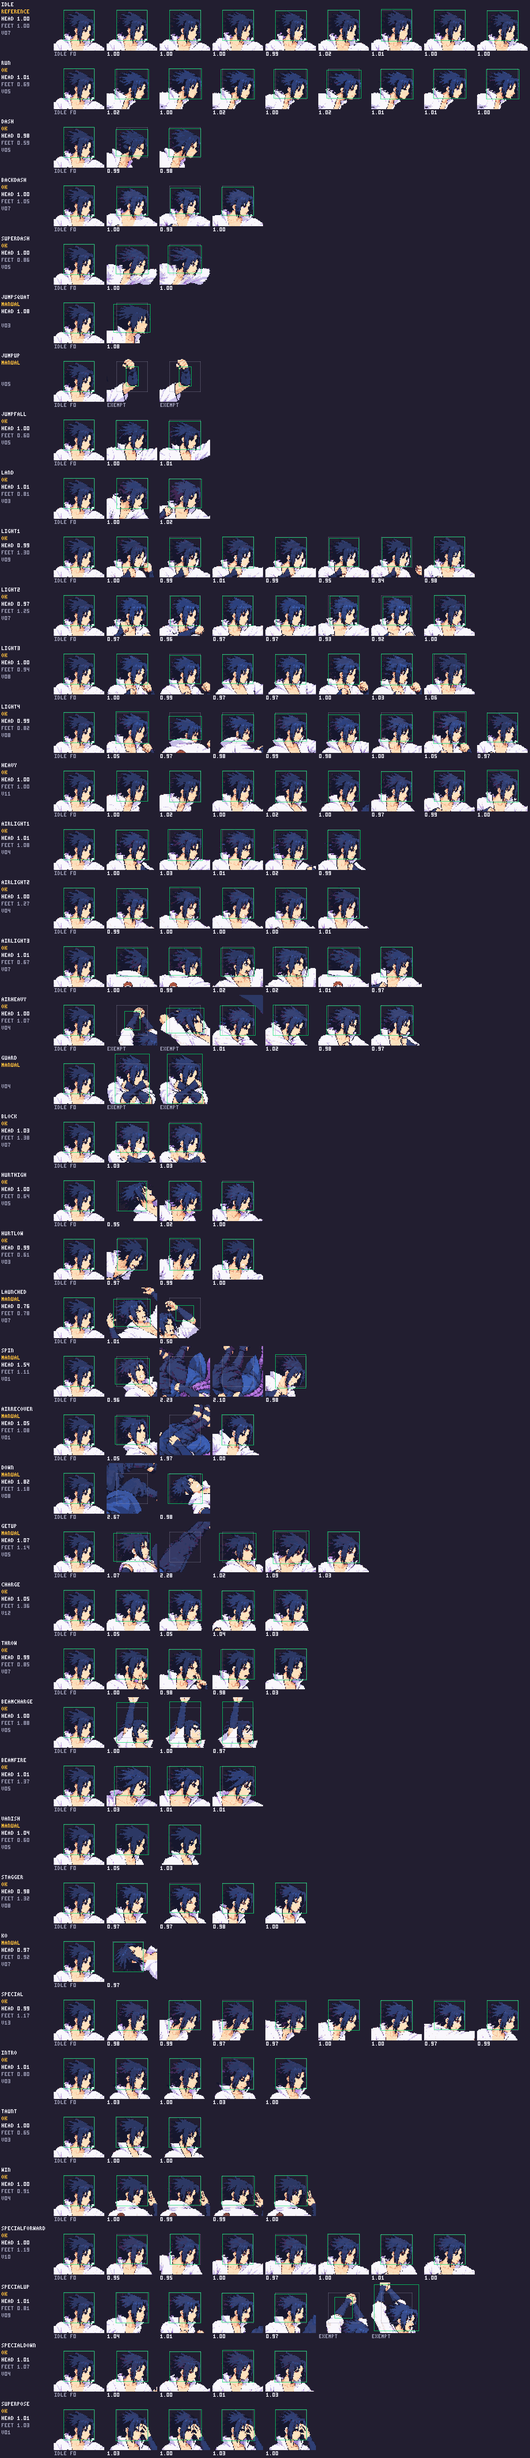
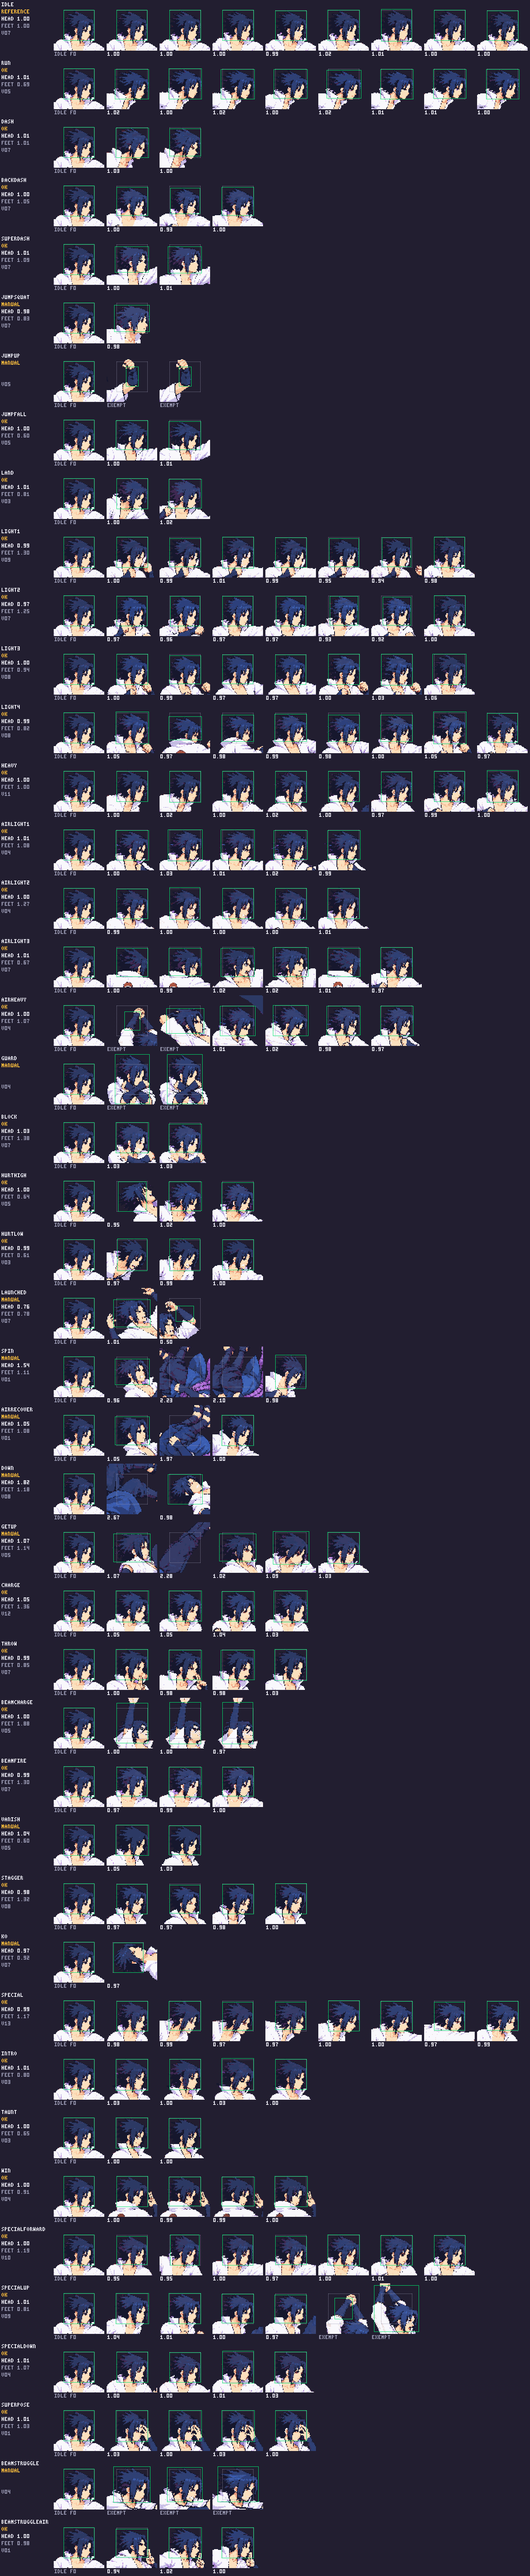
art(sasuke): calibrate beamStruggle scale v04

diff --git a/public/reviews/size-r6/sasuke-beamStruggle-v04/index.html b/public/reviews/size-r6/sasuke-beamStruggle-v04/index.html
@@ -1,0 +1,11 @@
+<!doctype html>
+<html lang="en"><head><meta charset="utf-8"><meta name="viewport" content="width=device-width,initial-scale=1"><title>Sasuke beamStruggle v04 review</title><style>:root{color-scheme:dark;font:16px/1.5 system-ui,sans-serif;background:#14121c;color:#f1eef8}body{max-width:1120px;margin:2rem auto;padding:0 1rem}h1{font-size:1.6rem}h2{font-size:1.15rem;margin-top:2rem}.notice{border:1px solid #669cce;background:#172a3b;padding:1rem}.grid{display:grid;grid-template-columns:repeat(auto-fit,minmax(190px,1fr));gap:1rem}.cell{background:#211e2c;border:1px solid #403b50;padding:.5rem}.cell img{display:block;width:100%;height:auto;image-rendering:pixelated;background:#171521}.label{font-weight:650}.small{color:#c7c1d3;font-size:.9rem}button{font:inherit;padding:.35rem .7rem;margin:.25rem;background:#45365f;color:white;border:1px solid #8d79ae;border-radius:.3rem}button[aria-pressed=true]{background:#7052a5}code{font-size:.9em}table{border-collapse:collapse;width:100%}th,td{border:1px solid #514b5f;padding:.45rem;text-align:left}</style></head><body>
+<h1>Sasuke <code>beamStruggle</code> v04 — scale calibration review</h1>
+<p class="notice"><strong>Ready for visual review; not yet approved.</strong> v04 is a no-call re-assembly of the unchanged v01 drawing. The measured scale now matches the approved idle landmarks; the shipped approval remains v01 until the user approves v04.</p>
+<p class="small">Source art SHA-256: <code>00ADE94028B861DE74CE8095B5644A75D0AA5106013D4B55764B0045FDB993F1</code>. Packed Sasuke atlas: 4096×3072, 48 colors, 44 animations / 181 frames. v04 bodyHeight 152 (~1.25× the approved v01 setting 122). The head probe overlaps the outstretched navy sleeve, so frames 0–2 have version-specific exemptions and manual landmarks.</p>
+<h2>Reference scale</h2><div class="grid"><div class="cell"><div class="label">Approved idle f0 — head ~40 px, sash band ~46 px</div><img src="idle-f0.png" alt="Approved Sasuke idle frame 0"></div><div class="cell"><div class="label">Approved title-style combat reference</div><img src="approved-combat-v01.png" alt="Approved Sasuke title-style combat cell"></div></div>
+<h2>Old vs calibrated packed strip</h2><div class="grid"><div class="cell"><div class="label">Approved v01 f0</div><img src="old-v01-f0.png" alt="Approved beam struggle frame 0 before size calibration"></div><div class="cell"><div class="label">Candidate v04 f0</div><img src="v04-f0.png" alt="Candidate v04 frame 0"></div><div class="cell"><div class="label">Approved v01 f1</div><img src="old-v01-f1.png" alt="Approved beam struggle frame 1 before size calibration"></div><div class="cell"><div class="label">Candidate v04 f1</div><img src="v04-f1.png" alt="Candidate v04 frame 1"></div><div class="cell"><div class="label">Approved v01 f2</div><img src="old-v01-f2.png" alt="Approved beam struggle frame 2 before size calibration"></div><div class="cell"><div class="label">Candidate v04 f2</div><img src="v04-f2.png" alt="Candidate v04 frame 2"></div></div>
+<h2>Candidate playback</h2><div class="cell" style="max-width:320px"><div class="label">Frame <span id="frame-label">0</span></div><img id="candidate" src="v04-f0.png" alt="Candidate Sasuke beamStruggle frame 0"><div><button id="prev">Previous</button><button id="play" aria-pressed="false">Play</button><button id="next">Next</button></div><div id="frame-buttons"></div></div>
+<h2>Scale landmarks at packed atlas density</h2><table><thead><tr><th>Landmark</th><th>Approved idle f0</th><th>v04 frames 0–2</th><th>Result</th></tr></thead><tbody><tr><td>Crown including hair to chin</td><td>~40 px</td><td>39–41 px</td><td>Within about ±2 px</td></tr><tr><td>Front sash band width, excluding loose ties/tails</td><td>~46 px</td><td>44–48 px</td><td>Within about ±2 px</td></tr></tbody></table>
+<p class="small">Claude supplied the calibrated two-landmark readings in art-camera relay #4; Codex packed v04 and visually checked the equal-density atlas comparison. The probe box includes the sleeve, so it is not used as a head-size verdict. This is scale QA, not an approval of design, pose, contact or gameplay. v02/v03 history is preserved in the measurement record.</p>
+<script>const frames=['v04-f0.png','v04-f1.png','v04-f2.png'];let n=0,t=null;const img=document.getElementById('candidate'),label=document.getElementById('frame-label'),play=document.getElementById('play'),buttons=document.getElementById('frame-buttons');function set(i){n=(i+frames.length)%frames.length;img.src=frames[n];img.alt=`Candidate Sasuke beamStruggle frame ${n}`;label.textContent=n;[...buttons.children].forEach((b,j)=>b.setAttribute('aria-pressed',String(j===n)))}for(let i=0;i<3;i++){const b=document.createElement('button');b.textContent=`Frame ${i}`;b.onclick=()=>set(i);buttons.appendChild(b)}document.getElementById('prev').onclick=()=>set(n-1);document.getElementById('next').onclick=()=>set(n+1);play.onclick=()=>{if(t){clearInterval(t);t=null;play.textContent='Play';play.setAttribute('aria-pressed','false')}else{t=setInterval(()=>set(n+1),70);play.textContent='Pause';play.setAttribute('aria-pressed','true')}};set(0);</script></body></html>

diff --git a/art/scale/size-r6/CONFIRMED.md b/art/scale/size-r6/CONFIRMED.md
@@ -6,6 +6,8 @@ Exhaustive 230-strip inventory and triage counts: [FILTERED_CANDIDATES.md](FILTE
 
 The previous draft contained estimated segment ratios that were not reproducible from endpoint coordinates. Those ratios and every resulting redraw/“OK” verdict are withdrawn. B (garment-color area) and H (head-probe output) remain diagnostic only; neither establishes a limb-chain ratio. The per-frame coordinate grids in this folder show the packed candidate, its own idle f0, and the approved title-style combat cell at equal 256 px density, with 32 px grid lines. They support pose inspection but do not themselves mark anatomical landmarks.
 
+**Relay #4 calibration:** Claude supplied two agreeing landmarks for Sasuke `beamStruggle` v01 (about 31/40 px crown-to-chin and 37/46 px front sash width, both about 20% small); this supersedes the earlier unannotated estimates below. A no-call 1.246× packed re-assembly at bodyHeight152 is v04. Its packed head and sash landmarks are within the idle target ranges; scale QA passes, while design approval and contact QA remain pending. Claude withdrew the B-based tier-1 picks Killua `airLight2`, Sasuke `airLight3`, and Gojo `hurtLow`; no further image call for Killua `airLight2`. Gojo `heavy` and `airLight1` stay unresolved pending two-landmark checks. See [v04 record](SASUKE_BEAMSTRUGGLE_V04.md).
+
 The inspected frames do not yet establish a reproducible limb-chain error. Two torso comparisons have endpoint estimates below, but their poses introduce projection/compression uncertainty; broad silhouette spans are not accepted as torso breadth unless they isolate shoulder/torso landmarks. These data do not yet authorize a redraw. Unresolved rows are holds, not passes. Tier 2 likewise has no certified pass; “no demonstrated error” means only that this review did not establish one.
 
 ## Tier 1: required segments and disposition
@@ -16,8 +18,9 @@ The inspected frames do not yet establish a reproducible limb-chain error. Two t
 | Gojo `airLight1` v07 | f0-f4 | `coords-gojo-airLight1-f*.png` | No endpoint coordinates recorded | No endpoint coordinates recorded | Extended arm is not a same-pose comparison | Folded/airborne chain; no homologous endpoints | No sole/heel pair measured | Hold; previous short-body assertion withdrawn |
 | Gojo `hurtLow` v04 | f0-f2 | `coords-gojo-hurtLow-f*.png` | No endpoint coordinates recorded | Crouch changes projected torso; endpoints unmarked | Partly occluded | Bent chain; endpoints unmarked | No sole/heel pair measured | Hold; previous short-body assertion withdrawn |
 | Sasuke `airLight3` v07 | f0-f5 | `coords-sasuke-airLight3-f*.png` | No endpoint coordinates recorded | Rotating poses; endpoints unmarked | Rotation/extension; endpoints unmarked | Rotation/extension; endpoints unmarked | No sole/heel pair measured | Hold; previous enlarged-body assertion withdrawn |
-| Sasuke `beamStruggle` v01 | f0-f2; checked all frames | `coords-sasuke-beamStruggle-f0.png`, `f1.png`, `f2.png`; native sources `raw/beamStruggle_v01.png`, `reference/idle_approved.png` | Packed-grid visual crown-to-chin: idle f0 y65–108 ≈43 px; beam f0 y123–156 ≈33 px; candidate/reference 0.77 (±4 px endpoint uncertainty -> approx 0.60–0.96). Manual B/H body report says H=.949; discrepancy unresolved, so visual head estimate alone is not accepted as a finding. | Torso collar-to-belt visual estimate: idle y96–145 ≈49 px; beam f0 y139–175 ≈36 px; ratio 0.73, ±4 px each endpoint (approx 0.62–0.88). Deep crouch/lean compresses vertical projection. Previous broad torso silhouette-width estimate is withdrawn; sleeves/arms were not excluded with an annotated scanline. | Arm chains not homologous; extended push pose | Deep wide crouch; lower-chain endpoints not homologous to idle stance | Sole/toe-heel not measured | Original manifest bodyHeight 122 packs with no beamStruggle scale-gate warning (`1 ref, 33 ok, 10 manual`). Isolated diagnostic bodyHeight 159 produced `beamStruggle head 1.24 of idle (feet 1.44)` and was worse; 122 and all outputs restored. Conflicting visual/probe evidence and pose projection leave this unresolved; no redraw authorized |
[1 lines of base64/hex data omitted]
+| Sasuke `beamStruggle` v01 | f0-f2 | Claude's relay #4 two-landmark calibration | Crown-to-chin 31 vs idle 40 px (0.78); front sash band 37 vs idle 46 px (0.80); both approximately 20% small and agree, identifying a whole-drawing scale error rather than anatomy drift. | Same source, matched horizontal front-band endpoints; approximately 20% small. | Extended push pose; no same-pose arm pair | Deep wide crouch; projection not used as height | Shoe pair not needed after two agreeing landmarks | Confirmed size error. No-call re-assembly at ~1.25×; v04 retains identical source pixels at bodyHeight152. |
[2 lines of base64/hex data omitted]
 | Killua `airLight2` v07 | f0-f4 | `coords-killua-airLight2-f*.png` | No endpoint coordinates recorded | No endpoint coordinates recorded | Kick pose; no homologous chain measured | f0 is a one-leg airborne pose unlike idle stance; projected length is not full chain length | No homologous heel/toe pair | Hold; previous .65-.76 leg and .78-.90 shoe ratios withdrawn |
 
 The prior ratio claims were based on visual estimates and/or inferred from B/H. They must not be reused as measurements. To change a hold into a finding, annotate each compared frame with the actual anatomical endpoint pixel coordinates, calculate Euclidean pixel lengths at the same packed density, record the reference chain and candidate chain, and report uncertainty for ambiguous landmarks. A redraw decision requires repeatable evidence of the same segment deviation across relevant frames, not a body-area median.

diff --git a/art/REVIEW.md b/art/REVIEW.md
@@ -8,7 +8,8 @@ Reviewed pages: [Goku full core set](https://gcd-tourney-le661omg1-eshin087s-pro
 
 | date | character | asset | file | version | status | what changed | QA notes |
 |---|---|---|---|---|---|---|---|
-| 2026-10-17 | sasuke | beamStruggle | [beamStruggle_v03.png](characters/sasuke/raw/_qa_hold/beamStruggle_v03.png) | v03 | needs review | No-call byte-identical v01 reassembly calibration; held pending a defined sash-band measurement. | Diagnostic bodyHeight146 page compares approved idle/combat, packed v01, v03 frames and air strip. Manual QA pending; approved v01 and bodyHeight122 production atlas unchanged. Technical hold; no approval requested. See [measurement record](scale/size-r6/SASUKE_BEAMSTRUGGLE_V03.md) and [page](../public/reviews/size-r6/sasuke-beamStruggle-v03/index.html). |
+| 2026-10-18 | sasuke | beamStruggle | [beamStruggle_v04.png](characters/sasuke/raw/beamStruggle_v04.png) | v04 | needs review | No-call 1.246× re-assembly of the unchanged v01 drawing; bodyHeight152. | Claude's two landmarks identify v01 as ~20% small. Packed v04 crown-to-chin is 39–41 px and sash band 44–48 px versus idle ~40/46 px; probe overlaps sleeve and is exempt on f0-f2. Scale QA passes, but art approval remains pending. [Review page](../public/reviews/size-r6/sasuke-beamStruggle-v04/index.html); [head scale](scale/heads-sasuke.png); [body sheet](scale/size-r6/body-sasuke-beamStruggle.png); [lineup](scale/size-r6/lineup-sasuke-beamStruggle-v04.png); [measurement record](scale/size-r6/SASUKE_BEAMSTRUGGLE_V04.md). |
+| 2026-10-17 | sasuke | beamStruggle | [beamStruggle_v03.png](characters/sasuke/raw/_qa_hold/beamStruggle_v03.png) | v03 | needs review | Diagnostic byte-identical v01 copy; superseded by v04 calibration and retained in `_qa_hold`. | Diagnostic bodyHeight146 only; the probe/sash methods were inconclusive. Not a user art-review candidate. See [historical record](scale/size-r6/SASUKE_BEAMSTRUGGLE_V03.md). |
 | 2026-10-17 | killua | airLight2 | [airLight2_v08.png](characters/killua/raw/_qa_hold/airLight2_v08.png) | v08 | needs review | Unapproved diagnostic redraw attempt; preserved in `_qa_hold`, not submitted for user approval. | Strict pack failed `airLight2 head 1.06, feet 1.21 of idle`; no frames/atlas were written. v07 segment evidence does not justify a lower-body correction yet. Preserve v07 approved; no approval requested for v08. See [generation ledger](characters/killua/production/size-r6/GENERATION_LEDGER.md). |
 | 2026-10-16 | goku | run | [run_v09.png](characters/goku/raw/run_v09.png) | v09 | approved | Approved by the user via Claude relay #14, as drawn; exact quote above. No pixels changed. | Final strict r5 atlas audit retained; runtime contact/timing checks remain Claude’s. |
 | 2026-10-16 | goku | dash | [dash_v09.png](characters/goku/raw/dash_v09.png) | v09 | approved | Approved by the user via Claude relay #14, as drawn; exact quote above. No pixels changed. | Final strict r5 atlas audit retained; runtime contact/timing checks remain Claude’s. |

diff --git a/art/scale/size-r6/SASUKE_BEAMSTRUGGLE_V04.md b/art/scale/size-r6/SASUKE_BEAMSTRUGGLE_V04.md
@@ -1,0 +1,26 @@
+# Sasuke `beamStruggle` v04 calibration
+
+This is a no-call re-assembly for scale review. It changes no pose, anatomy, or source pixels and does not approve the art.
+
+## Calibration and provenance
+
+Claude's calibration instruction arrived in art-camera relay #4: v01 was about 20% small; the head probe included the outstretched navy sleeve because that sleeve uses the hair palette. The two independent landmarks agreed: crown-to-chin about 31 px versus the idle's 40 px, and front sash band about 37 px versus 46 px. Claude directed an approximately 1.25× no-call re-assembly, per-frame probe exemptions, and version-bound manual QA.
+
[1 lines of base64/hex data omitted]
+
+## Packed landmark verification
+
+At equal 256 px cell density, the packed v04 frames were compared with approved Sasuke idle f0 and the approved title-style combat cell. The corrected landmarks match Claude's target:
+
+| Landmark | Idle f0 | v04 f0 | v04 f1 | v04 f2 | Uncertainty / disposition |
+|---|---:|---:|---:|---:|---|
+| Crown including hair to chin | ~40 px | 39–41 px | 39–41 px | 39–41 px | Head tilt and sleeve overlap; about ±2 px. Within target. |
+| Front sash band width, excluding ties and tails | ~46 px | 44–48 px | 44–48 px | 44–48 px | Pose/perspective; about ±2 px. Within target. |
+
+The head probe remains invalid for this strip because it captures the navy sleeve. Manifest `scaleExemptFrames` covers f0-f2 and `scaleExemptVersion` is 4; `scaleManualQA` is bound to v04. The manual result is a scale QA pass only. Limb-chain proportions, contact, pose quality and user art approval remain separate.
+
+## Pack and review evidence
+
+`node tools/pack-sprites.mjs sasuke --quantize 48` completed 44 animations / 181 frames into a 4096×3072 atlas at 48 colors. It reported 1 reference, 32 automatically measured strips and 11 manual strips; the beam probe is exempted for v04. Existing unrelated scale and lying-frame warnings remain listed in the pack output. The generated head report has no flagged strip; the body sheet is advisory and has no flagged strip. The lineup was generated at `art/scale/size-r6/lineup-sasuke-beamStruggle-v04.png`.
+
[1 lines of base64/hex data omitted]

diff --git a/docs/agents/CLAUDE_ART_HANDOFF.md b/docs/agents/CLAUDE_ART_HANDOFF.md
@@ -1,3 +1,15 @@
+# ART-SIZE-R6 tier-1 calibration ready for art review (2026-10-18, chat `1 - Art and Camera`)
+
[1 lines of base64/hex data omitted]
+
[1 lines of base64/hex data omitted]
+
+Claude withdrew the B-only tier-1 picks Killua `airLight2`, Sasuke `airLight3` and Gojo `hurtLow`; no additional Killua `airLight2` call. Gojo `heavy` and `airLight1` have not yet met the two-landmark confirmation threshold. The 113-row candidate filter remains a screening list, not 113 defects; remaining candidate checks and tier 2 continue after the user review step. Gojo `dash`/`superDash` remain excluded to `art/gojo-dash-size`. No camera or engine files changed. No Astra final audit, merge or production deploy.
+
+Validation: `node tools/pack-sprites.mjs sasuke --quantize 48` completed; `npm run build` passed with existing optional-animation lint warnings. Browser QA remains unverified: previous hosted preview navigation was blocked by automatic review on the Vercel authentication redirect; no bypass was attempted.
+
+---
+
 # Codex: all Goku/Luffy core drawings approved; merge guards pass (2026-10-16, relay #14)
 
 **USER APPROVAL via Claude:** "Approve all 16 Goku strips and all 19 Luffy strips as drawn." All 35 exact approvals are recorded in main's shared REVIEW at `3e307d1a` and in the fighter branches' manifests, TRACKER sections and REVIEW_ROWS. Together with earlier approvals, **all 23 core drawings per fighter are approved**. This supersedes the pending drawing requests in the historical handoffs below. No further drawing decision is needed; no new image calls occurred.

diff --git a/docs/TASKS.md b/docs/TASKS.md
@@ -424,5 +424,5 @@ ART-GOJO-TITLE | Codex | in-progress | Approved title-style all42+3UI. All sourc
 
 | ART-LOOSE-NARUTO-20261015 | Scale loose ends | Codex | review | User approved light2Alt v05 and airHeavyAlt v04 as drawn via Claude relay on 2026-10-15. Approval bookkeeping recorded; strict contact/anatomy holds remain for Claude calibration. No atlas promotion, merge or deploy. |
 
-| ART-SIZE-R6 | Size consistency round 6: segment measurements and tier-1 disposition | Codex + Claude | review | 2026-10-17: inventoried all 230 packed strips with hashes/probes and 40 comparison pages; independent screens found no additional confirmed redraw. Sasuke beamStruggle v03 is a held no-call calibration; intended sash-width endpoints need Claude annotation, approved v01/bodyHeight122 atlas preserved. Killua airLight2 v08 remains held after strict pack failure; no approval requested. Full segment audit, Astra final audit and user approval are incomplete. See art/scale/size-r6/FILTERED_CANDIDATES.md, CONFIRMED.md, and SASUKE_BEAMSTRUGGLE_V03.md. |
+| ART-SIZE-R6 | Size consistency round 6: candidate filtering, two-landmark checks and fixes | Codex + Claude | review | 2026-10-18: inventory/filter covers 230 packed strips across six fighters (113 screening leads, not findings). Claude's relay #4 confirms Sasuke beamStruggle v01 ~20% small on crown/chin and sash landmarks; no-call v04 at bodyHeight152 passes those landmarks and is ready for user review. Gojo heavy/airLight1 remain unresolved; Gojo hurtLow, Sasuke airLight3 and Killua airLight2 B-only picks withdrawn; no more Killua airLight2 calls. The remaining filtered candidates, tier 2, user approval, Astra audit, contact check and merge are incomplete. No camera/engine change. See art/scale/size-r6/FILTERED_CANDIDATES.md, CONFIRMED.md and SASUKE_BEAMSTRUGGLE_V04.md. |
 | ART-LOOSE-KILLUA-20261015 | Scale loose ends | Codex | review | User approved charge v14, down v08 and ko v09 as drawn via Claude relay scale#6 (“i approve those 5”); visual approval only. Runtime grounding/state-transition and charge aura checks plus calibration uncertainty remain with Claude. No source, sidecar, hitbox or atlas edits; no commit/merge/deploy. |

diff --git a/art/TRACKER.md b/art/TRACKER.md
@@ -406,7 +406,7 @@ Brief, per-fighter poses and rules: [characters/BEAM_STRUGGLE_BRIEF.md](characte
 | fighter | beamStruggle | beamStruggleAir | the technique | notes |
 |---|---|---|---|---|
 | naruto | approved | - | Rasengan, two-handed push | v02 approved as drawn via Claude approval desk relay #7 (“Approve all 6”); v01 remains held. Strict pack passes (head .95-.98); body-area B=.65-.67 advisory accepted. Palm anchor [232,124] across frames. Astra audit pending; see Round 2 review page. |
-| sasuke | approved | approved | Chidori Spear thrust; in the air the Great Fireball (blown from the mouth, hand sign at the lips) | Ground and air v01 approved via Claude approval desk relay #7. Strict packs pass; approved ground production bodyHeight122 remains unchanged. ART-SIZE-R6 v03 is a held no-call calibration candidate with manual QA pending; see `scale/size-r6/SASUKE_BEAMSTRUGGLE_V03.md`. |
+| sasuke | approved | approved | Chidori Spear thrust; in the air the Great Fireball (blown from the mouth, hand sign at the lips) | Ground and air v01 approved via Claude approval desk relay #7. ART-SIZE-R6 v04 reassembles the unchanged beamStruggle drawing at bodyHeight152; two-landmark scale QA passes, candidate needs user art approval. ApprovedVersion remains v01. See `scale/size-r6/SASUKE_BEAMSTRUGGLE_V04.md`. |
 | killua | approved | approved | Narukami, open palm (in the air driven down) | Ground v01 approved via Claude approval desk relay #7; air v02 approved as drawn via relay #10 (“Approve v02”). Air v01 remains preserved as rejected/superseded in raw/_rejected after its technical gate failure. V02 strict quantized pack passes; body sheet H=.97–1.03, B=.97–.99, no body flag. Astra audit and exact hand-anchor measurement remain before runtime integration. See Round 2 review page. |
 | gojo | approved | approved | Reversal: Red at two fingertips, other hand in the pocket (in the air pointed down) | Ground and air v01 approved via Claude approval desk relay #7; strict packs pass. Astra audit pending; see Round 2 review page. |
 | goku | todo | - | Dragon Fist lunge | after his core art is on main; no air energy shot |

diff --git a/CHANGELOG.md b/CHANGELOG.md
@@ -11,7 +11,7 @@ Fixed, Security. Reference task ids and ADRs where useful.
 
 ## [Unreleased]
 
-- ART-SIZE-R6: inventoried all 230 packed strips with per-strip probe/reference hashes and comparison pages; preserved Killua airLight2 v08 and Sasuke beamStruggle v03 under `_qa_hold`. Sasuke v03 remains a technical hold; tier-1 corrections and approval are incomplete.
+- ART-SIZE-R6: re-assembled Sasuke beamStruggle as v04 at bodyHeight152 with no image call; Claude's crown-to-chin and sash-band landmarks now match idle within ~2 px, with per-frame head-probe exemptions for sleeve overlap. User art approval pending; v01 remains approved. The 230-strip/six-fighter candidate screen and remaining two-landmark checks continue; no camera or engine change.
 
 - Added: `node tools/relay.mjs desk on|off`, the user's switch for the approvals desk (OPS-018, ADR 0040). While it is off, each chat asks the user itself instead of queueing everything for `0 - Approvals`.
 - Added: Round 2b Goku and Luffy super/ultimate image candidates, call/hash ledger, Astra audit and candidate review gallery (ART-SUPER-ART). All eight approved via Claude relay effects #10 despite recorded Astra palette/crop/anatomy holds; approved fixed copies and fitted packer outputs were added.
